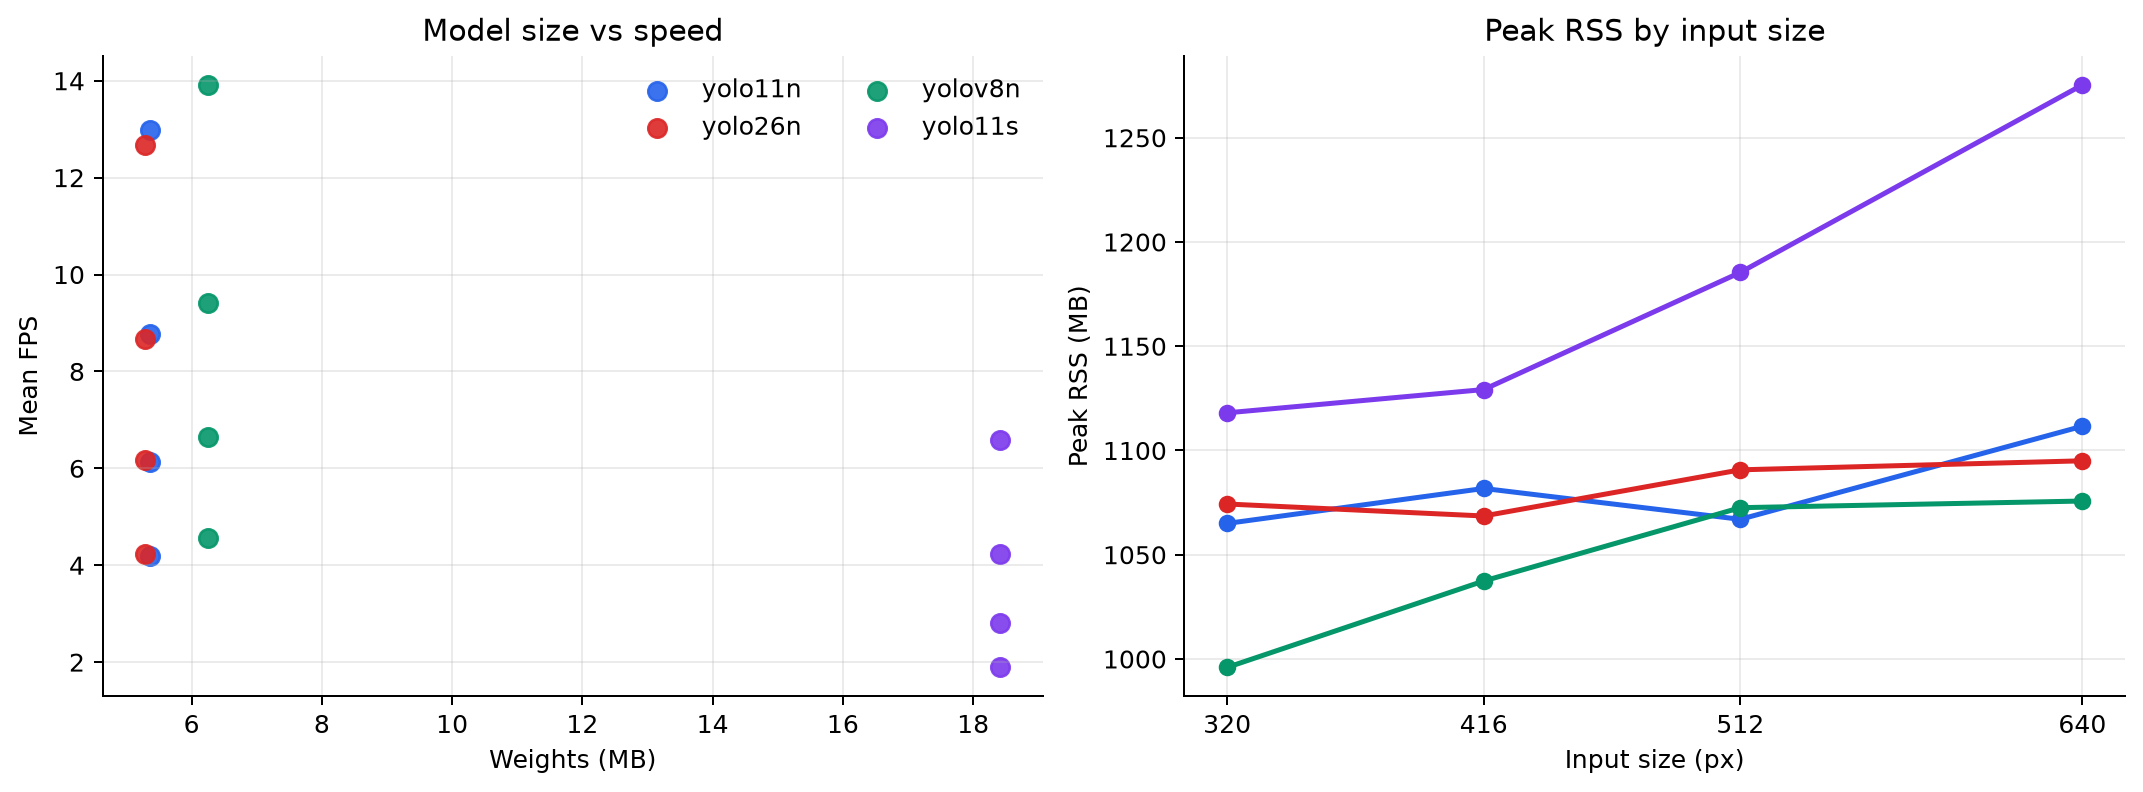
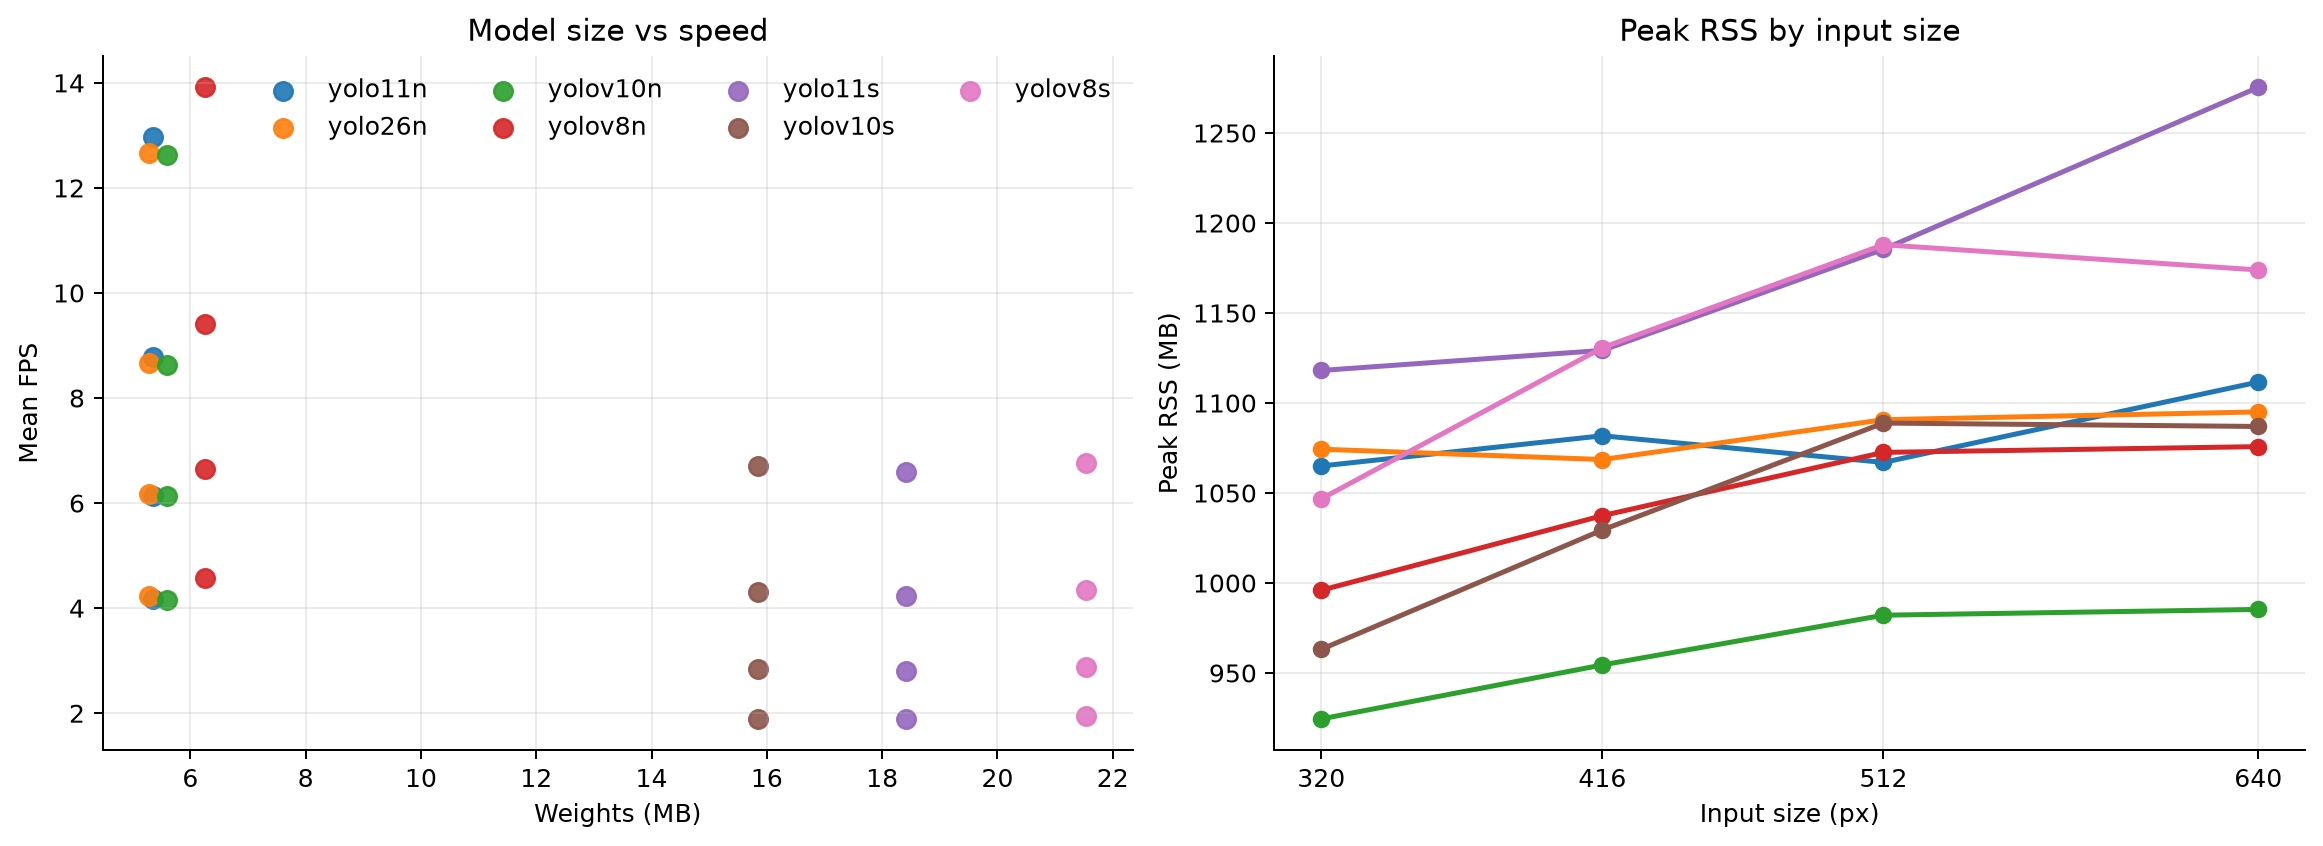
added v10 model and additional small version of existing models for comparison

diff --git a/phase1/plot_metrics.py b/phase1/plot_metrics.py
@@ -4,6 +4,7 @@ import csv
 from pathlib import Path
 
 import matplotlib.pyplot as plt
+from matplotlib import colormaps
 from matplotlib.ticker import MaxNLocator
 
 
@@ -35,10 +36,11 @@ plt.rcParams.update({
     "grid.alpha": 0.25,
 })
 
-agg = read_csv(ROOT / "speed_all.csv")
+agg = [r for r in read_csv(ROOT / "speed_all.csv") if r["status"] == "ok"]
 models = sorted({r["model"] for r in agg}, key=lambda x: ("s" in x, x))
 sizes = sorted({int(r["imgsz"]) for r in agg})
-colors = {m: c for m, c in zip(models, ["#2563eb", "#dc2626", "#059669", "#7c3aed"])}
+colors = {m: colormaps["tab10"](i % 10) for i, m in enumerate(models)}
+legend_cols = min(4, max(2, len(models)))
 
 
 def save(fig, name):
@@ -48,7 +50,7 @@ def save(fig, name):
 
 
 # 1. Main speed/latency comparison.
-fig, axes = plt.subplots(1, 2, figsize=(12, 4.5))
+fig, axes = plt.subplots(1, 2, figsize=(13, 4.8))
 for m in models:
     rows = sorted([r for r in agg if r["model"] == m], key=lambda r: int(r["imgsz"]))
     x = [int(r["imgsz"]) for r in rows]
@@ -57,12 +59,12 @@ for m in models:
 axes[0].set(title="Speed by input size", xlabel="Input size (px)", ylabel="Mean FPS")
 axes[1].set(title="Tail latency by input size", xlabel="Input size (px)", ylabel="P95 latency (ms)")
 axes[0].set_xticks(sizes); axes[1].set_xticks(sizes)
-axes[0].legend(frameon=False, ncol=2)
+axes[0].legend(frameon=False, ncol=legend_cols)
 save(fig, "01_speed_and_latency.png")
 
 
 # 2. Pareto-style resource view at each resolution.
-fig, axes = plt.subplots(1, 2, figsize=(12, 4.5))
+fig, axes = plt.subplots(1, 2, figsize=(13, 4.8))
 for m in models:
     rows = [r for r in agg if r["model"] == m]
     axes[0].scatter([f(r, "weights_mb") for r in rows], [f(r, "fps_mean") for r in rows],
@@ -73,13 +75,13 @@ for m in models:
 axes[0].set(title="Model size vs speed", xlabel="Weights (MB)", ylabel="Mean FPS")
 axes[1].set(title="Peak RSS by input size", xlabel="Input size (px)", ylabel="Peak RSS (MB)")
 axes[1].set_xticks(sizes)
-axes[0].legend(frameon=False, ncol=2)
+axes[0].legend(frameon=False, ncol=legend_cols)
 save(fig, "02_size_memory_tradeoffs.png")
 
 
 # 3. Latency breakdown, normalized to the measured end-to-end path.
-fig, ax = plt.subplots(figsize=(10, 5))
 ordered = sorted(agg, key=lambda r: (int(r["imgsz"]), models.index(r["model"])))
+fig, ax = plt.subplots(figsize=(max(12, len(ordered) * 0.42), 5.5))
 labels = [f"{model_label(r['model'])}\n{r['imgsz']}" for r in ordered]
 bottom = [0.0] * len(ordered)
 for key, label, color in [("pre_ms", "Pre", "#93c5fd"), ("inf_ms", "Inference", "#2563eb"), ("post_ms", "Post", "#1e3a8a")]:
@@ -89,20 +91,20 @@ for key, label, color in [("pre_ms", "Pre", "#93c5fd"), ("inf_ms", "Inference", 
 for idx, total in enumerate(bottom):
     ax.text(idx, total + max(bottom) * 0.012, f"{total:.1f}", ha="center", va="bottom", fontsize=8)
 ax.set(title="Where the end-to-end latency goes", ylabel="Milliseconds")
-ax.tick_params(axis="x", labelrotation=45)
+ax.tick_params(axis="x", labelrotation=55, labelsize=8)
 ax.legend(frameon=False, ncol=3)
 save(fig, "03_latency_breakdown.png")
 
 
 # 4. Temperature and throttling signal.
-fig, ax = plt.subplots(figsize=(10, 4.5))
+fig, ax = plt.subplots(figsize=(13, 4.8))
 for m in models:
     rows = sorted([r for r in agg if r["model"] == m], key=lambda r: int(r["imgsz"]))
     ax.plot([int(r["imgsz"]) for r in rows], [f(r, "temp_end_c") for r in rows], marker="o", lw=2,
             color=colors[m], label=model_label(m))
 ax.axhline(80, color="#b91c1c", ls="--", lw=1, label="80 °C reference")
 ax.set(title="End temperature remained below the reference line", xlabel="Input size (px)", ylabel="End temperature (°C)", xticks=sizes)
-ax.legend(frameon=False, ncol=3)
+ax.legend(frameon=False, ncol=legend_cols)
 save(fig, "04_temperature.png")
 
 
@@ -117,14 +119,14 @@ for path in trace_files:
     axes[1].plot(x, [f(r, "temp_c") for r in rows], lw=1.4, label=model_label(m), color=colors.get(m))
 axes[0].set(title="320 px window-by-window throughput", ylabel="FPS")
 axes[1].set(title="320 px temperature trace", xlabel="30-frame window", ylabel="Temperature (°C)")
-axes[0].legend(frameon=False, ncol=3)
+axes[0].legend(frameon=False, ncol=legend_cols)
 axes[0].xaxis.set_major_locator(MaxNLocator(integer=True))
 save(fig, "05_320px_stability.png")
 
 
 # 6. One compact ranking table rendered as a figure for easy sharing.
 rows320 = sorted([r for r in agg if int(r["imgsz"]) == 320], key=lambda r: f(r, "fps_mean"), reverse=True)
-fig, ax = plt.subplots(figsize=(8, 2.7))
+fig, ax = plt.subplots(figsize=(max(8, len(rows320) * 1.35), 2.7))
 ax.axis("off")
 columns = ["Model", "FPS", "P50 (ms)", "P95 (ms)", "Weights (MB)", "End temp (°C)"]
 data = [[model_label(r["model"]), f'{f(r, "fps_mean"):.2f}', f'{f(r, "lat_p50_ms"):.1f}',
